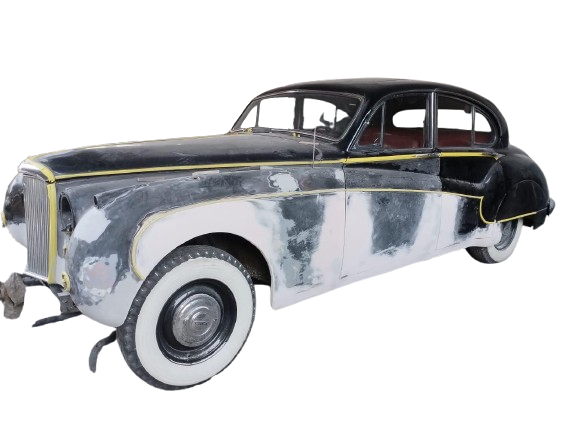
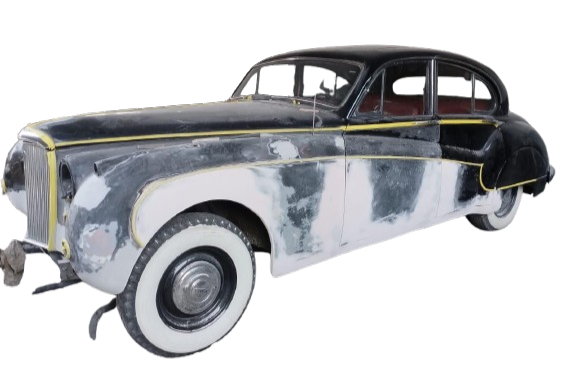
cambios en diseño de imagenes para telefono

diff --git a/autoverstat/src/components/welcome_section/Years.jsx b/autoverstat/src/components/welcome_section/Years.jsx
@@ -1,17 +1,86 @@
 import Box from '@mui/material/Box'
 import Typography from '@mui/material/Typography'
+import collision from '../../assets/icons/collision.png'
+import paint from '../../assets/icons/touchup.png'
+import car from '../../assets/icons/new-car.png'
 
-
-const Stats = ({texto})=>{
+const Years = ()=>{
 
     return(
-        <Box height={180} width={120} 
-        sx={{ display:'flex', flexDirection:'column', justifyContent:'center' , backgroundColor: 'var(--bg-primary)', borderRadius: 1.5 }} >
-            <Typography textAlign={'center'} variant="body1" color="var(--txt-light)" sx={{whiteSpace: 'pre-line'}} >
-                {texto}
+        <Box height={250} width={320} 
+        sx={{ display:'flex', flexDirection:'column', justifyContent:'center' , backgroundColor: 'var(--bg-secondary)', borderRadius: 5,
+            
+            //TODO > esto debe cambiar solo para la vista de -900 px ademas del color de fondo que debe ser opaco
+            position: 'absolute',
+            top:2,
+            left: 20,
+            zIndex: 10,
+         }} >
+            <Typography fontSize={30} fontWeight={'bold'}  textAlign={'center'} variant="body1" color="var(--txt-light)" >
+                +20 años
             </Typography>
-        </Box>
+
+            <Typography textAlign={'center'} variant="body1" color="var(--txt-light)"> 
+                Operando con calidad experta
+            </Typography>
+
+             <Box
+                sx={{
+                    display: 'flex',
+                    gap: 5,
+                    justifyContent: 'center',
+                    alignItems: 'center',
+                    mt: 2,
+                    '& .icon': {
+                    width: 64,
+                    height: 64,
+                    animation: 'pulse 4s ease-in-out infinite',
+                    },
+                    '& .icon:nth-of-type(1)': {
+                    animationDelay: '0s',
+                    },
+                    '& .icon:nth-of-type(2)': {
+                    animationDelay: '1s',
+                    },
+                    '& .icon:nth-of-type(3)': {
+                    animationDelay: '2s',
+                    },
+                    '@keyframes pulse': {
+                    '0%, 100%': {
+                        transform: 'scale(1)',
+                    },
+                    '50%': {
+                        transform: 'scale(1.3)',
+                    },
+                    },
+                }}
+                >
+                <Box
+                    component="img"
+                    src={collision}
+                    alt="Icono 1"
+                    className="icon"
+                />
+                <Box
+                    component="img"
+                    src={paint}
+                    alt="Icono 2"
+                    className="icon"
+                />
+                <Box
+                    component="img"
+                    src={car}
+                    alt="Icono 3"
+                    className="icon"
+                />
+                </Box>
+            </Box>
+            
+
+
+            
+            
     )
 }
 
-export default Stats
+export default Years

diff --git a/autoverstat/src/components/welcome_section/Welcome.jsx b/autoverstat/src/components/welcome_section/Welcome.jsx
@@ -4,7 +4,9 @@ import Box from '@mui/material/Box'
 import Button from '@mui/material/Button'
 
 import Years from './Years'
+
 import FadeImage from './FadeImage'
+
 
 const Welcome =()=>{
 
@@ -19,10 +21,13 @@ const Welcome =()=>{
                 </Button>
             </Box>
 
-            <Box sx={{display:'flex', justifyContent:'space-evenly', alignItems: 'top', mt:5}}>
-                <Years texto={ `20+ \n Años de Servicio`}/>
+           
+
+            <Box sx={{display:'flex', justifyContent:'space-around', alignItems: 'center', mt:5,
+                 position: 'relative', //TODO > este cambia con vista phone
+            }}>
+                <Years />
                 <FadeImage/>
-                <Years texto={ `20+ \n Años de Servicio`}/>
             </Box>
 
         </>

diff --git a/autoverstat/src/components/welcome_section/FadeImage.jsx b/autoverstat/src/components/welcome_section/FadeImage.jsx
@@ -14,10 +14,10 @@ const FadeImage = () => {
 
     return () => clearInterval(intervalo); // Limpieza al desmontar
   }, []);
-
+// backgroundColor: 'var(--bg-secondary)'
   return (
-    <Box sx={{ position: 'relative', width: 450, height: 300,   
-    overflow: 'hidden' , backgroundColor: 'var(--bg-secondary)', borderRadius: 1.5}}>
+    <Box sx={{ position: 'relative', width: 600, height: 370,   
+    overflow: 'hidden' , paddingLeft:2,  borderRadius: 3}}>
       
       <Fade in={mostrarPrimera} timeout={1000}>
         <Box

diff --git a/autoverstat/styles.css b/autoverstat/styles.css
@@ -7,7 +7,9 @@ html, body {
 
 :root{
     --bg-primary: #024443;
-    --bg-secondary: #03b2b7;
+    --bg-secondary: #03b1b7b3;
+    /* --bg-secondary: #03b2b7; */
+    /* --bg-secondary-trans: #03b1b757; */
     --txt-light:  #ffffff;
     --bg-accent: #c21107;
   
